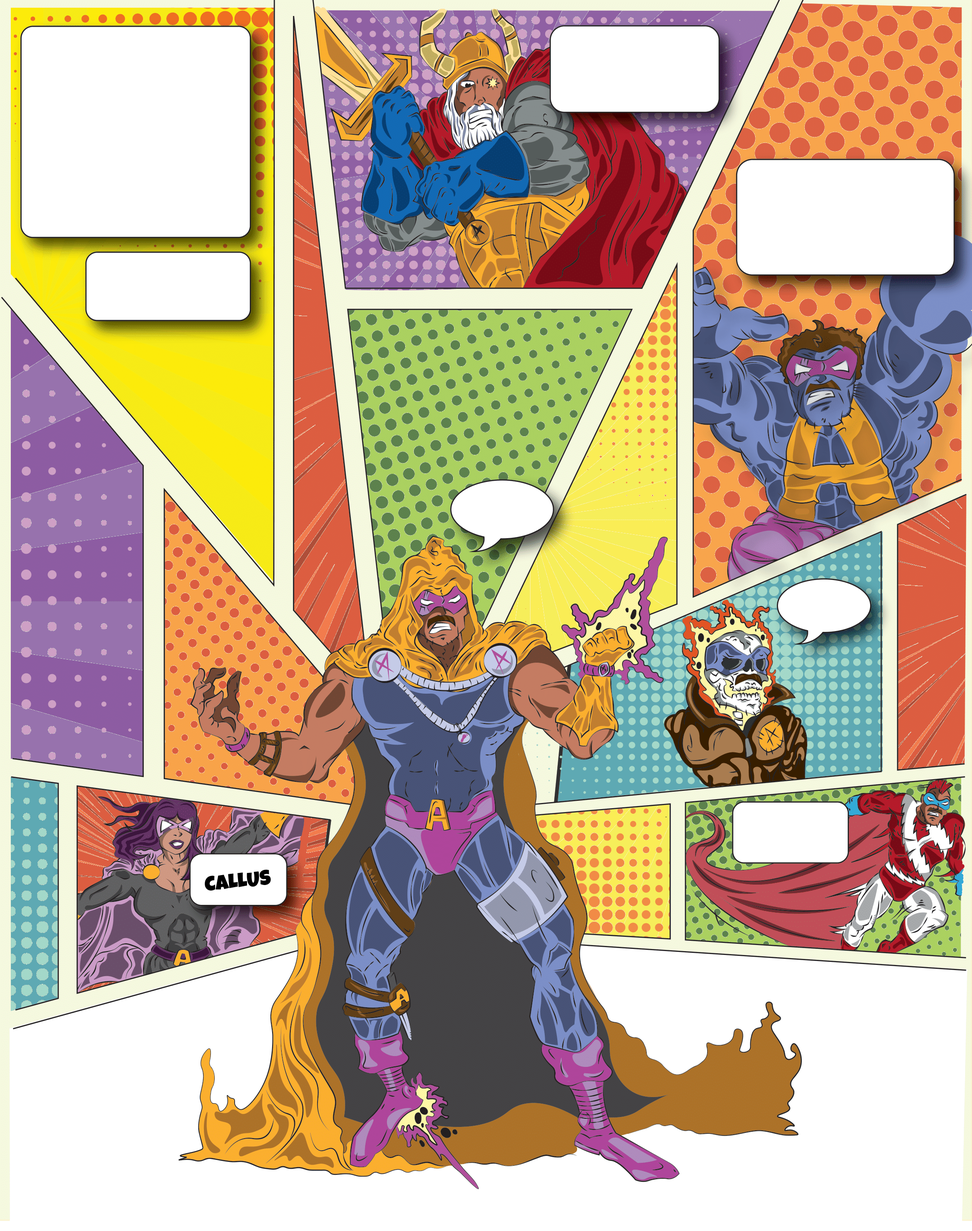
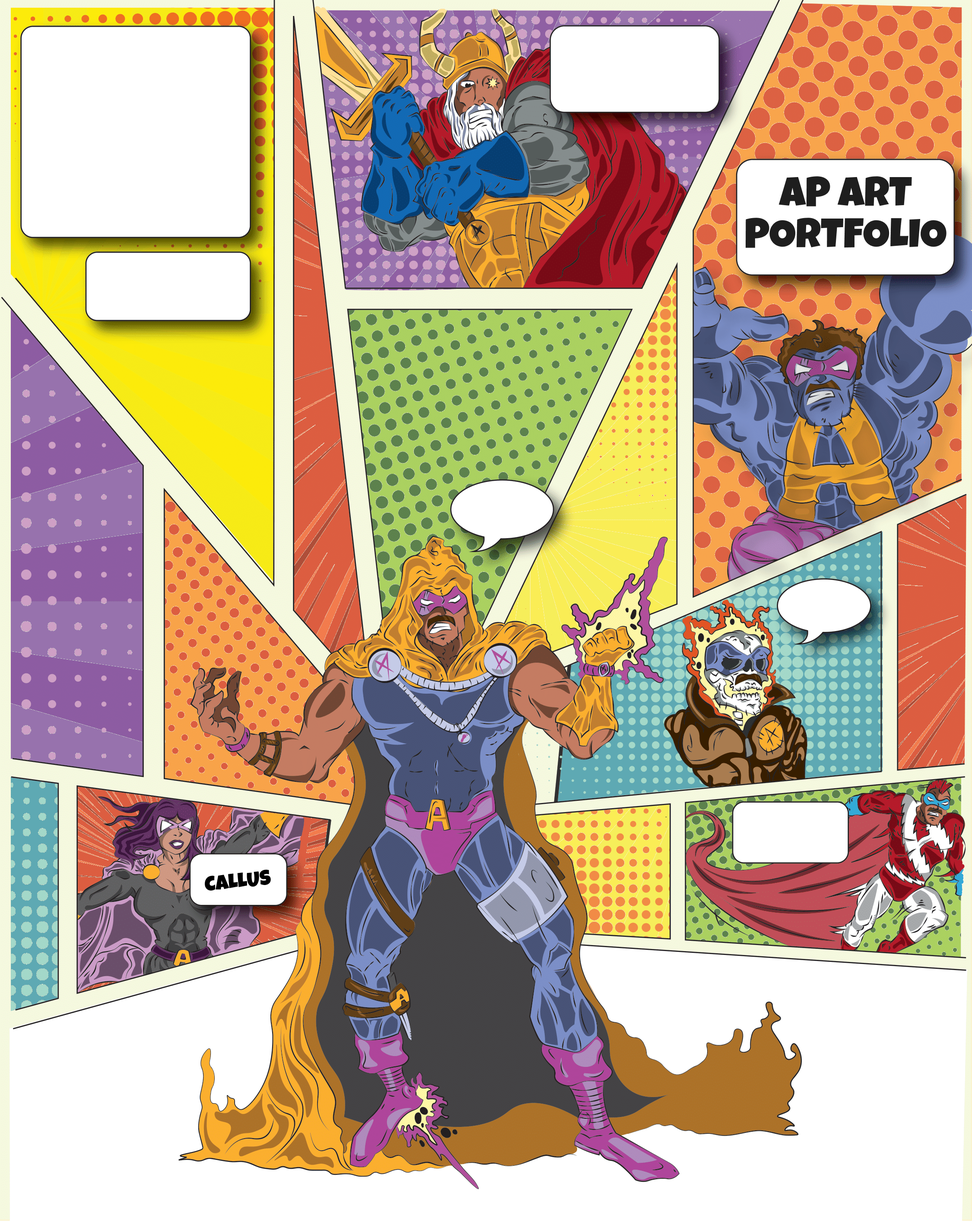
AP Art Pages Added

Changed region(s): [[0.7467, 0.1249, 0.9644, 0.2186]]

diff --git a/heytheandrew/src/components/Home.jsx b/heytheandrew/src/components/Home.jsx
@@ -5,22 +5,22 @@ const Home = () => {
     <div className="relative bg-heytheandrew bg-top w-full h-[250vh] bg-cover bg-scroll">
       {/* Background Image */}
       <div className="absolute inset-0 pointer-events-none"></div>
-      <div className="absolute inset-0">
-        <div className="relative h-full w-full">
-          <div
-            className="absolute"
-            style={{
-              top: '74%', // Adjust these values
-              left: '25%', // Adjust these values
-              transform: 'translate(-54%, -50%)',
-            }}
-          >
-            <div className="w-[10vw] h-[5vh] bg-red-500 opacity-0 cursor-pointer py-9 w-40">
-              <Link to="/callus" className="block h-full w-full flex items-center justify-center text-white">
-                CALLUS
-              </Link>
-            </div>
-          </div>
+      
+      {/* CALLUS Button */}
+      <div className="absolute" style={{ top: '74%', left: '25%', transform: 'translate(-50%, -50%)', zIndex: 10 }}>
+        <div className="w-[10vw] h-[5vh] bg-red-500 opacity-0 cursor-pointer py-9">
+          <Link to="/callus" className="block h-full w-full flex items-center justify-center text-white">
+            CALLUS
+          </Link>
+        </div>
+      </div>
+
+      {/* AP ART PORTFOLIO Button */}
+      <div className="absolute" style={{ top: '18%', right: '1%', transform: 'translate(-1%, -50%)', zIndex: 10 }}>
+        <div className="w-[24vw] h-[32vh] bg-red-500 opacity-0 cursor-pointer py-9">
+          <Link to="/ap-art" className="block h-full w-full flex items-center justify-center text-white">
+            AP ART PORTFOLIO
+          </Link>
         </div>
       </div>
     </div>

diff --git a/heytheandrew/src/components/ApArt2.jsx b/heytheandrew/src/components/ApArt2.jsx
@@ -1,0 +1,48 @@
+import { Link } from "react-router-dom"
+
+const ApArt2 = () => {
+  return (
+    <div className='bg-apArt2 w-full h-screen bg-contain bg-center bg-no-repeat relative'>
+      <div className="absolute inset-0 pointer-events-none">
+      </div>
+      <div className="absolute inset-0">
+        <div className="relative h-full w-full">
+          <div
+            className="absolute"
+            style={{
+              top: '5%', // Adjust these values
+              left: '15%', // Adjust these values
+              transform: 'translate(-53%, -50%)',
+            }}
+          >
+            <div className="w-[13vw] h-[1vh] bg-red-500 opacity-0 cursor-pointer py-6 w-40">
+              <Link to="/" className="block h-full w-full flex items-center justify-center text-white">
+                BACK HOME
+              </Link>
+            </div>
+          </div>
+          <div
+            className="absolute"
+            c
+          >
+            <div className="w-[13vw] h-[1vh] bg-red-500 opacity-0 cursor-pointer py-6 w-40">
+              <Link to="/ap=art2" className="block h-full w-full flex items-center justify-center text-white">
+                Next Page
+              </Link>
+            </div>
+          </div>
+          <div className="absolute max-w-60" style={{ bottom: '5%', right: '9%' }}>
+            <p className="text-sm text-center">
+            Each of these photos were taken by Abby Kirsten.
+            <br />
+            See her other work 
+            <Link className="text-red-500 hover:text-red-800" to=""> here.</Link>
+            </p>
+          </div>
+        </div>
+      </div>
+    </div>
+  )
+}
+
+export default ApArt2

diff --git a/heytheandrew/src/components/ApArt.jsx b/heytheandrew/src/components/ApArt.jsx
@@ -1,0 +1,44 @@
+import { Link } from "react-router-dom"
+
+const ApArt = () => {
+  return (
+    <div className='bg-apArt w-full h-screen bg-contain bg-center bg-no-repeat relative'>
+      <div className="absolute inset-0 pointer-events-none">
+      </div>
+      <div className="absolute inset-0">
+        <div className="relative h-full w-full">
+          <div
+            className="absolute"
+            style={{
+              top: '5%', // Adjust these values
+              left: '15%', // Adjust these values
+              transform: 'translate(-53%, -50%)',
+            }}
+          >
+            <div className="w-[13vw] h-[1vh] bg-red-500 opacity-0 cursor-pointer py-6 w-40">
+              <Link to="/" className="block h-full w-full flex items-center justify-center text-white">
+                BACK HOME
+              </Link>
+            </div>
+          </div>
+          <div
+            className="absolute"
+            style={{
+              bottom: '0%', // Adjust these values
+              right: '1%', // Adjust these values
+              transform: 'translate(-53%, -50%)',
+            }}
+          >
+            <div className="w-[13vw] h-[1vh] bg-red-500 opacity-0 cursor-pointer py-6 w-40">
+              <Link to="/ap-art2" className="block h-full w-full flex items-center justify-center text-white">
+                Next Page
+              </Link>
+            </div>
+          </div>
+        </div>
+      </div>
+    </div>
+  )
+}
+
+export default ApArt

diff --git a/heytheandrew/src/App.js b/heytheandrew/src/App.js
@@ -1,6 +1,8 @@
 import './index.css'
 import { Routes, Route } from 'react-router-dom'
 import Home from './components/Home'
+import ApArt from './components/ApArt'
+import ApArt2 from './components/ApArt2'
 import Callus from './components/Callus'
 import Callus2 from './components/Callus2'
 
@@ -12,6 +14,8 @@ const App = () => {
           <Route path="/" element={<Home />} />
           <Route path="/callus" element={<Callus />} />
           <Route path="/callus-2" element={<Callus2 />} />
+          <Route path="/ap-art" element={<ApArt />} />
+          <Route path="/ap-art2" element={<ApArt2 />} />
         </Routes>
       </main>
     </div>

diff --git a/heytheandrew/tailwind.config.js b/heytheandrew/tailwind.config.js
@@ -6,7 +6,9 @@ module.exports = {
       backgroundImage: {
         heytheandrew: "url('/public/images/Group.png')",
         callus: "url('/public/images/CALLUS.png')",
-        callus2: "url('/public/images/CALLUS2.png')"
+        callus2: "url('/public/images/CALLUS2.png')",
+        apArt: "url('/public/images/ApArt.png')",
+        apArt2: "url('/public/images/ApArt2.png')"
       }
     }
   },
